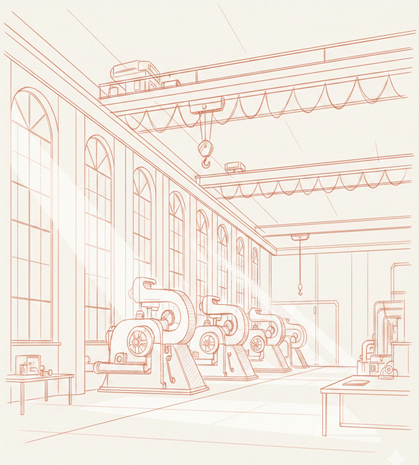
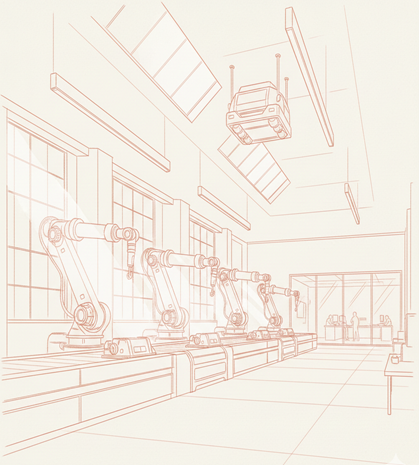
form changes

diff --git a/index.html b/index.html
@@ -259,6 +259,8 @@
 						  </p>
 
 						</div>
+                    </div>
+                </div>
                 <div class="site-col col-6">
                     <div class="site-content">
 						<p class="text-justify">

diff --git a/css/skin.css b/css/skin.css
@@ -390,7 +390,7 @@ header.site-header {
 }
 
 .main-header {
-    padding: 21px 40px;
+    padding: 12px 25px;
     top: 0;
     z-index: 999;
     position: relative;
